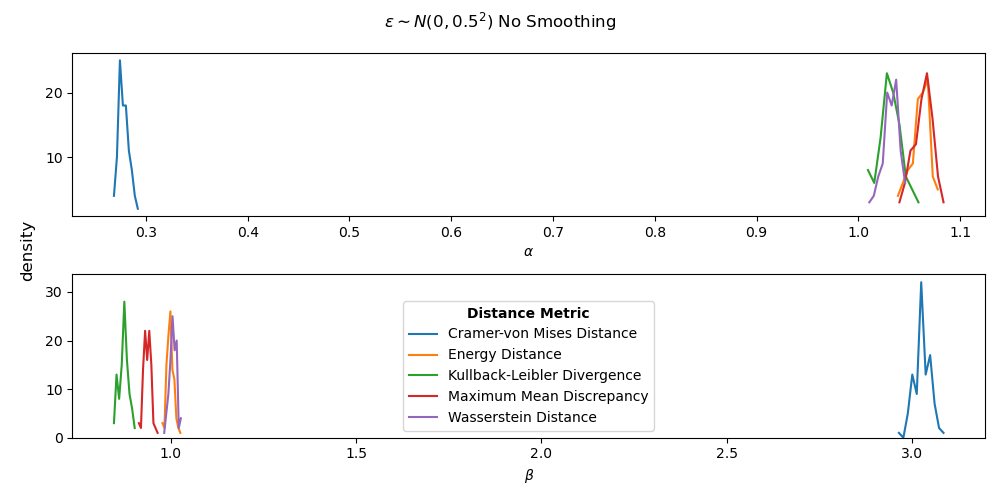
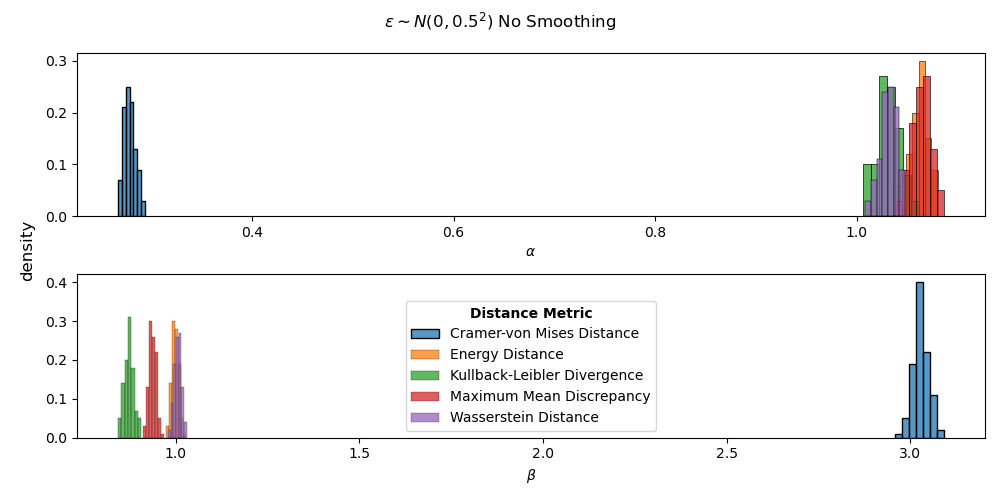
changed bin size and chart type for posterior distribution.

diff --git a/lotka_volterra/posterior_distribution_plot.py b/lotka_volterra/posterior_distribution_plot.py
@@ -12,37 +12,6 @@ COLORS = ['b', 'g', 'r', 'c', 'm']
 
 models = os.listdir(MODELS_PATH)
 
-# fig, ax = plt.subplots(2, 9, sharex='row', sharey='row', figsize=(20, 20))
-# fig, ax = plt.subplots(2, 9, figsize=(20, 20))
-
-# for idx, model in enumerate(models):
-#     metric_path = os.path.join(MODELS_PATH, model)
-#     metrics = os.listdir(metric_path)
-#     for metric_idx, metric in enumerate(metrics):
-#         # Want all metrics in one plot
-#         posterior_path = os.path.join(metric_path, metric)
-#         posteriors = os.listdir(posterior_path)
-#         # We only want the 0.1% quantiles
-#         path = os.path.join(posterior_path, posteriors[0])
-#         p = np.load(path)
-#         # Want median values only
-#         alpha_median = p[:,:,1][:,0]
-#         beta_median = p[:,:,1][:,1]
-#         sns.histplot(ax=ax[0, idx], data=alpha_median, element="poly", fill=False, color=COLORS[metric_idx], label=metric)
-#         sns.histplot(ax=ax[1, idx], data=beta_median, element="poly", fill=False, color=COLORS[metric_idx], label=metric)
-#         ax[0, idx].set_xlabel(r"$\alpha$")
-#         ax[1, idx].set_xlabel(r"$\beta$")
-#         ax[0, idx].set_ylabel("density")
-#         ax[1, idx].set_ylabel("density")
-#         ax[0, idx].set_title(model, fontsize=7)
-
-# handles, labels = ax[0,0].get_legend_handles_labels()  # Collect labels from the first subplot
-# plt.subplots_adjust(bottom=0.15)
-# fig.legend(handles, labels, loc='lower center', ncol=len(metric), bbox_to_anchor=(0.5, -0.05), fontsize=7)  # Adjust location and number of columns in the legend
-# fig.tight_layout()
-# save_path = os.path.join(PLOT_PATH, "posterior_distribution.png")
-# plt.savefig(save_path)
-
 for model in models:
     fig, ax = plt.subplots(2, 1, figsize=(10, 5))
     alpha_values, beta_values = {}, {}
@@ -65,13 +34,12 @@ for model in models:
         dist_metric = val
         alpha_med = alpha_values[val]
         beta_med = beta_values[val]
-        sns.histplot(ax=ax[0], data=alpha_med, element="poly", fill=False, label=dist_metric)
-        sns.histplot(ax=ax[1], data=beta_med, element="poly", fill=False, label=dist_metric)
+        sns.histplot(ax=ax[0], data=alpha_med, stat="probability", element="bars", fill=True, label=dist_metric, bins=7)
+        sns.histplot(ax=ax[1], data=beta_med, stat="probability", element="bars", fill=True, label=dist_metric, bins=7)
         ax[0].set_xlabel(r"$\alpha$")
         ax[1].set_xlabel(r"$\beta$")
         ax[0].set_ylabel("")
         ax[1].set_ylabel("")
-        # ax[0].set_title(model, fontsize=7)
     
     # Title for plot
     model_name = model.split("_")
